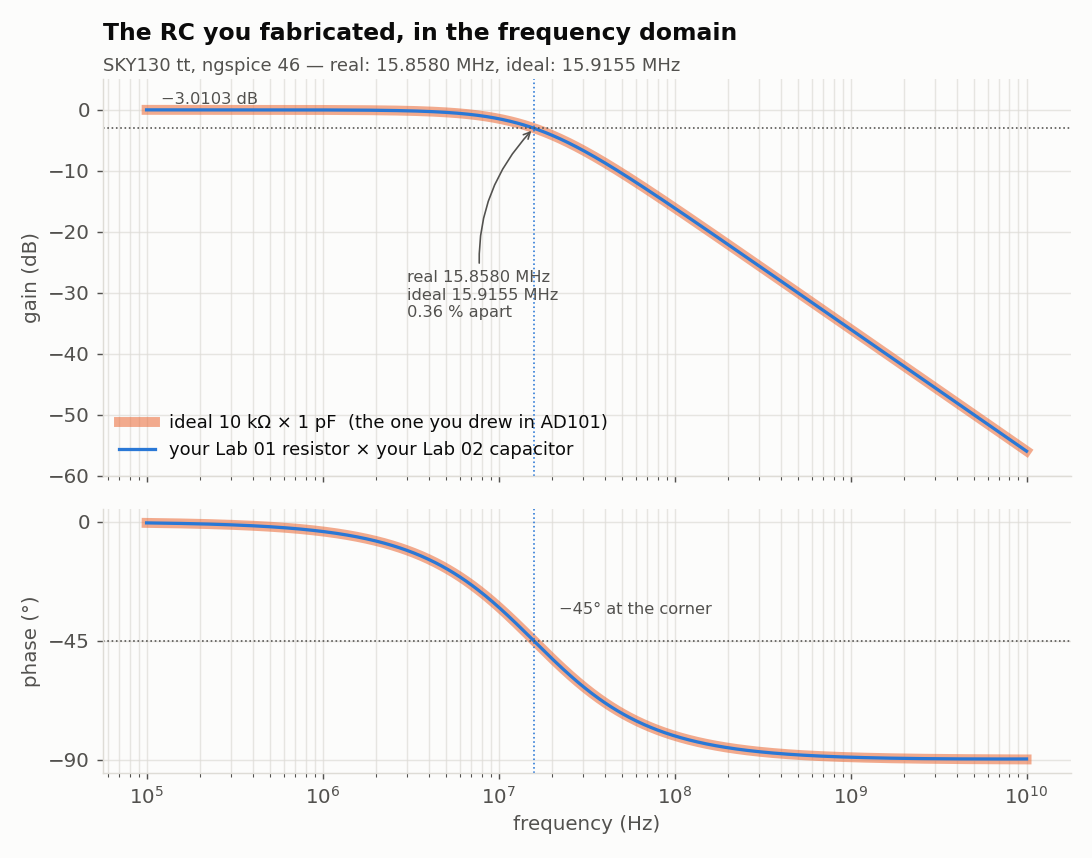
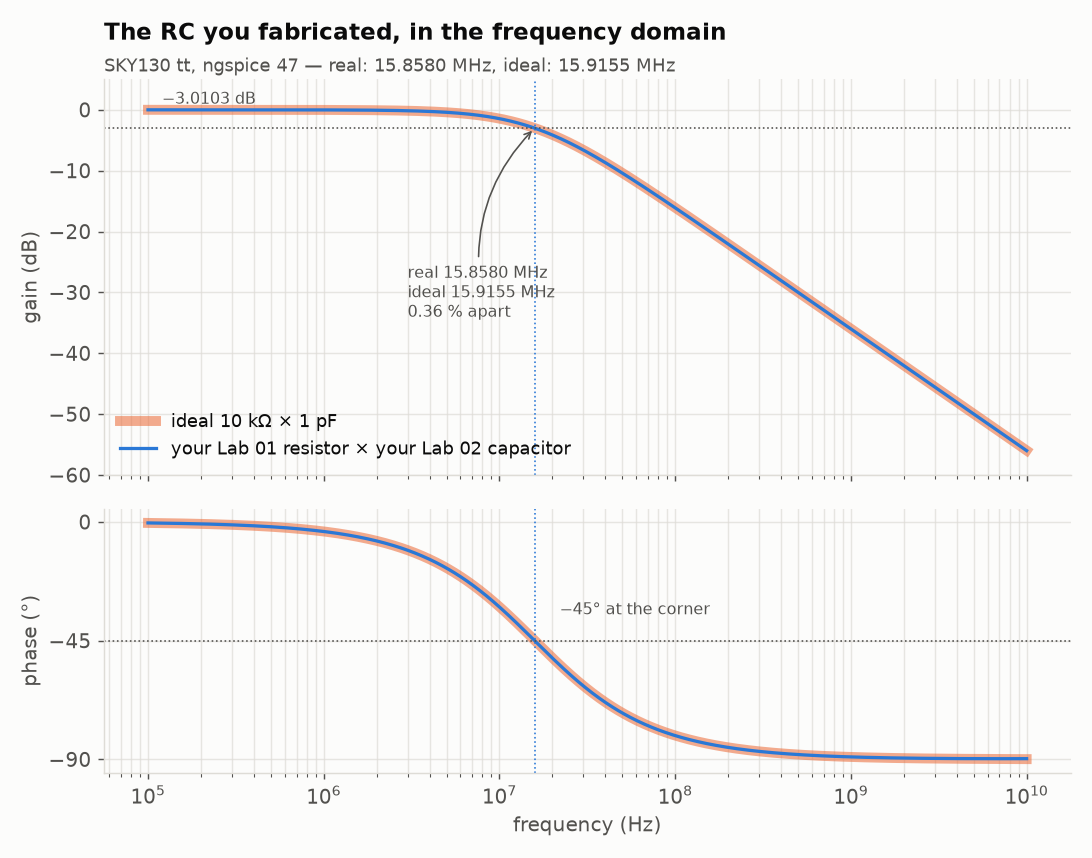
Lab 03 Bode plot: an ideal 10k x 1p, not "the one from AD101"
The home page, Lab 03 Part 7, the Lab 03 README and Makefile, bode.spice
and the figure's legend all called the ideal overlay "the 10 kOhm x 1 pF
filter from AD101". AD101's RC labs use 1 kOhm with 100-200 nF, so the
overlay is now described as what bode.spice simulates: an ideal 10 kOhm
and an ideal 1 pF, the same pair as section B of rc.spice. The figure
is re-rendered with make bode and make figure; besides the legend, its
subtitle now says ngspice 47 (the old PNG said 46).

While in the same files: make bode's banner promised "~2 s" from a
pre-flattened library that the 2026.08 image doesn't ship, and the
README and Lab 03 page told students to ignore it. The deck loads the
full sky130.lib.spice (14 s for make bode here, the same as the other
decks), so the banner and the deck comment now say so, and the two
apologies are gone.

Claude-Session: https://claude.ai/code/session_014vNQo86iMp4KCodfkrP84R

diff --git a/labs/lab-03-a-time-constant-in-silicon/src/plot_bode.py b/labs/lab-03-a-time-constant-in-silicon/src/plot_bode.py
@@ -1,5 +1,5 @@
 #!/usr/bin/env python3
-"""Draw the Bode plot of the RC you designed, over the ideal one from AD101.
+"""Draw the Bode plot of the RC you designed, over an ideal 10 kohm x 1 pF.
 
 Reads only results/bode.txt, which `make bode` produced, so the picture and
 the printed numbers cannot drift apart.
@@ -54,7 +54,7 @@ fig, (ax1, ax2) = plt.subplots(2, 1, figsize=(8.4, 6.6), sharex=True,
 # other. Draw the ideal as a wide pale band and the real one thin on top, so
 # the overlap is visible as an overlap rather than as one missing curve.
 ax1.semilogx(f, db_ideal, color=ORANGE, lw=5.5, alpha=0.55,
-             label="ideal 10 kΩ × 1 pF  (the one you drew in AD101)")
+             label="ideal 10 kΩ × 1 pF")
 ax1.semilogx(f, db_real, color=BLUE, lw=1.8,
              label="your Lab 01 resistor × your Lab 02 capacitor")
 ax1.axhline(-3.0103, color=INK2, lw=0.9, ls=":")

diff --git a/labs/lab-03-a-time-constant-in-silicon/README.md b/labs/lab-03-a-time-constant-in-silicon/README.md
@@ -30,15 +30,15 @@ The decks run without any environment setup, but `make edit` needs the noVNC des
 | `make rc` | the same RC eight ways, plus temperature, plus the parasitic of a bare poly strip |
 | `make mine` | simulate `spice/my_rc.spice`, the file you edit |
 | `make check` | re-run the verdict on logs already in `results/` |
-| `make bode` | the same RC in the frequency domain, plotted against the ideal 10 kΩ × 1 pF from AD101 |
+| `make bode` | the same RC in the frequency domain, plotted against an ideal 10 kΩ × 1 pF |
 | `make figure` | re-render that plot into `docs/assets/img` (maintainers only) |
 | `make netlist` | netlist `xschem/rc.sch`, the same circuit drawn, and print its two device lines |
 | `make edit` | open `xschem/rc.sch` in XSchem (needs the noVNC desktop) |
 | `make clean` | delete the logs, data and plots in `results/`, and `xschem/simulation/` |
 
-The `make bode` banner promises about 2 s, because the deck was written for a pre-flattened
-library. The 2026.08 image doesn't have that library, so `spice/bode.spice` now loads the full
-`sky130.lib.spice` and takes as long as the other decks.
+`spice/bode.spice` loads the full `sky130.lib.spice`, the same as the other decks, so `make bode`
+takes as long as they do. It was written for a pre-flattened library, which the 2026.08 image
+doesn't have.
 
 ## Files
 

diff --git a/docs/labs/lab-03-a-time-constant-in-silicon-overview.md b/docs/labs/lab-03-a-time-constant-in-silicon-overview.md
@@ -323,8 +323,8 @@ find where the output stops keeping up. The two answers are tied together by
 
 $$f_{-3\text{dB}} = \frac{1}{2\pi\tau}$$
 
-`spice/bode.spice` uses the same two devices as section E, and also simulates the ideal
-10 kΩ × 1 pF you would have drawn in AD101.
+`spice/bode.spice` uses the same two devices as section E, and also simulates an ideal 10 kΩ and
+an ideal 1 pF, the same pair as section B of `rc.spice`, for comparison.
 
 1. Take your $\tau$ from Part 2, 10.0362 ns, and predict the corner frequency.
 
@@ -334,9 +334,7 @@ $$f_{-3\text{dB}} = \frac{1}{2\pi\tau}$$
    make bode
    ```
 
-   It loads the same model library as the other decks, so expect the same wait. The Makefile
-   banner says "~2 s" and mentions a pre-flattened library, but the 2026.08 image doesn't ship
-   that library, so ignore the time the banner gives.
+   It loads the same model library as the other decks, so expect the same wait.
 
 **You should see:**
 

diff --git a/docs/index.md b/docs/index.md
@@ -87,8 +87,9 @@ in your question.
    on a chip.
 3. Build an RC filter from the resistor and capacitor you designed and measure its time
    constant $\tau$. Then measure its corner frequency, check it against $1/(2\pi\tau)$ to six
-   figures, and compare its Bode plot with that of the ideal 10 kΩ × 1 pF filter from AD101:
-   15.8580 MHz for the filter you built against 15.9155 MHz for the ideal one, 0.36 % apart.
+   figures, and compare its Bode plot with that of the same filter built from an ideal 10 kΩ and
+   an ideal 1 pF: 15.8580 MHz for the filter you built against 15.9155 MHz for the ideal one,
+   0.36 % apart.
    Optionally, open the same circuit in XSchem and see a schematic turn into the device lines you
    have been editing by hand.
 4. See the same resistor come out different at every process corner, and learn why analog
